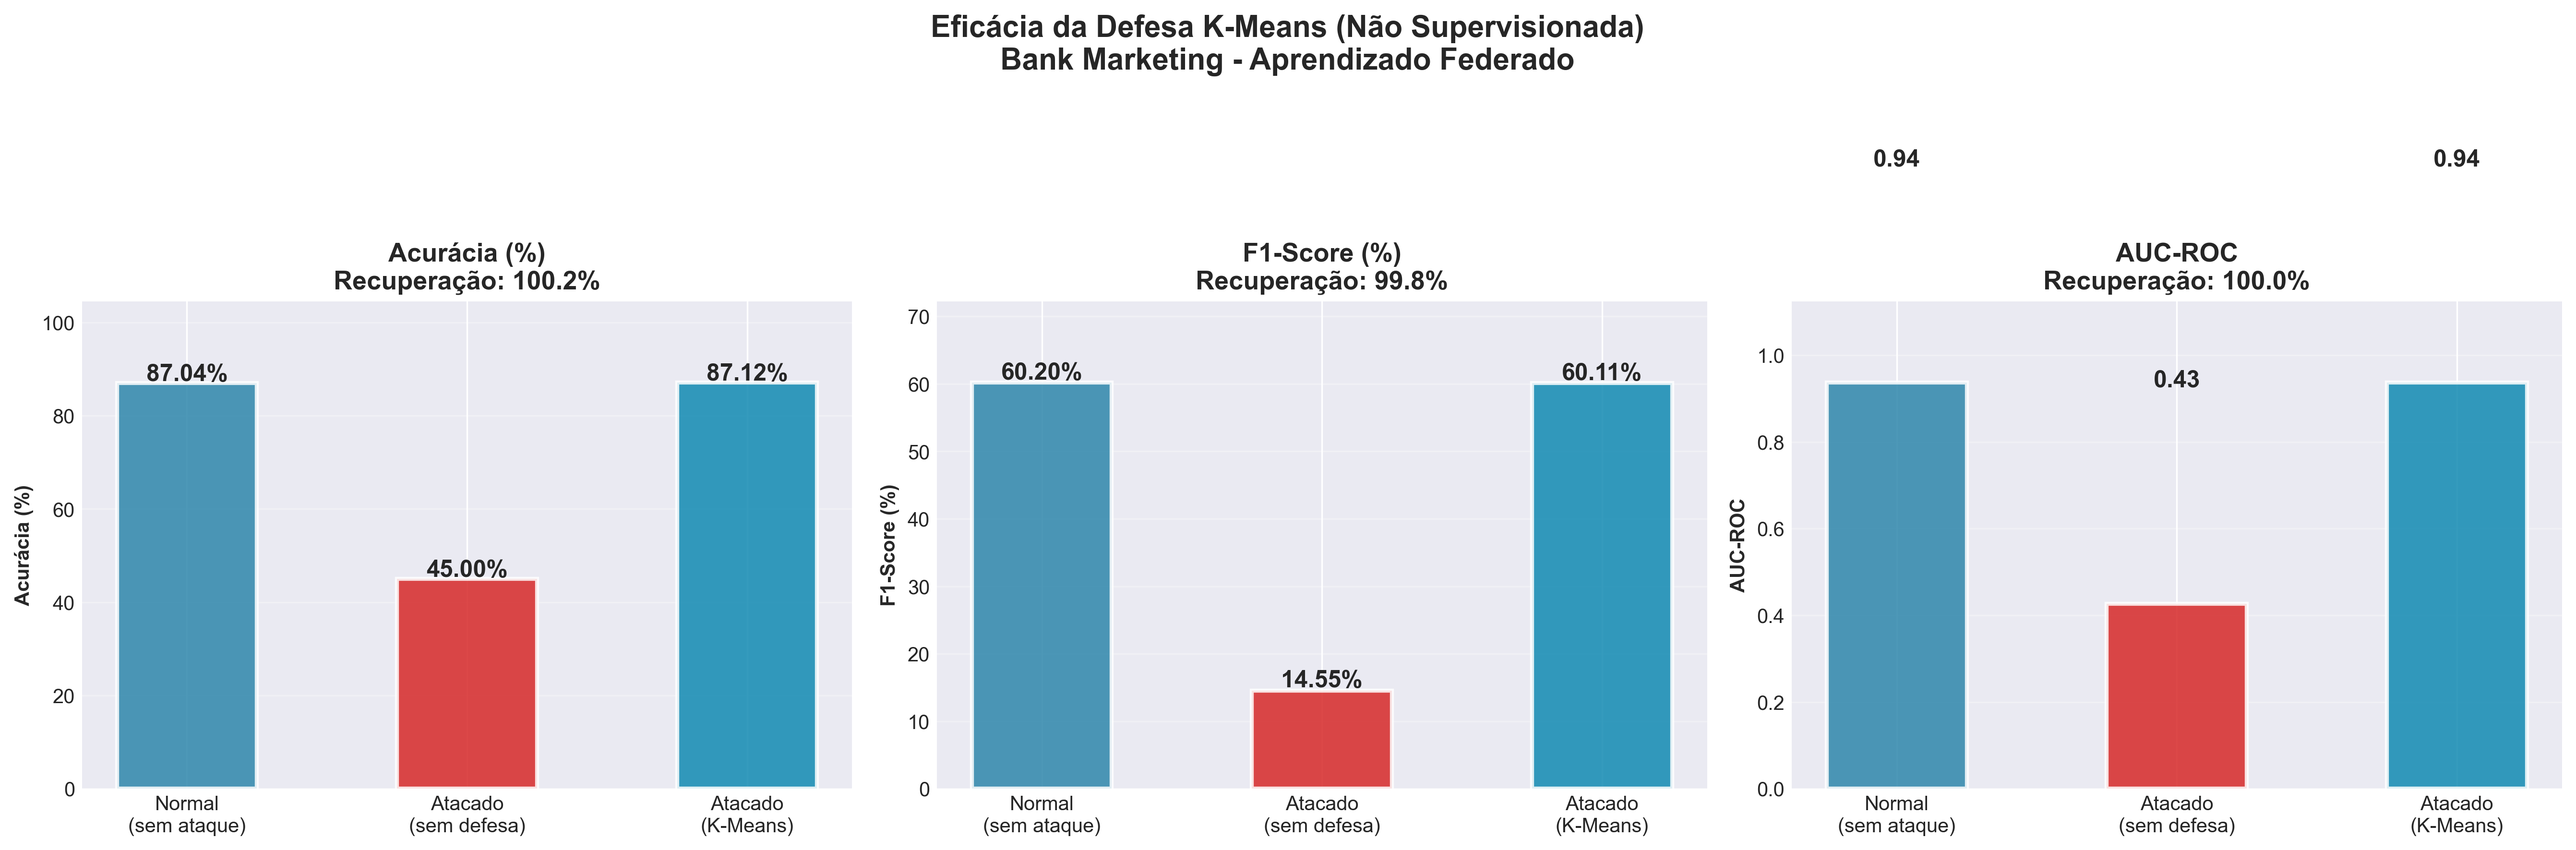
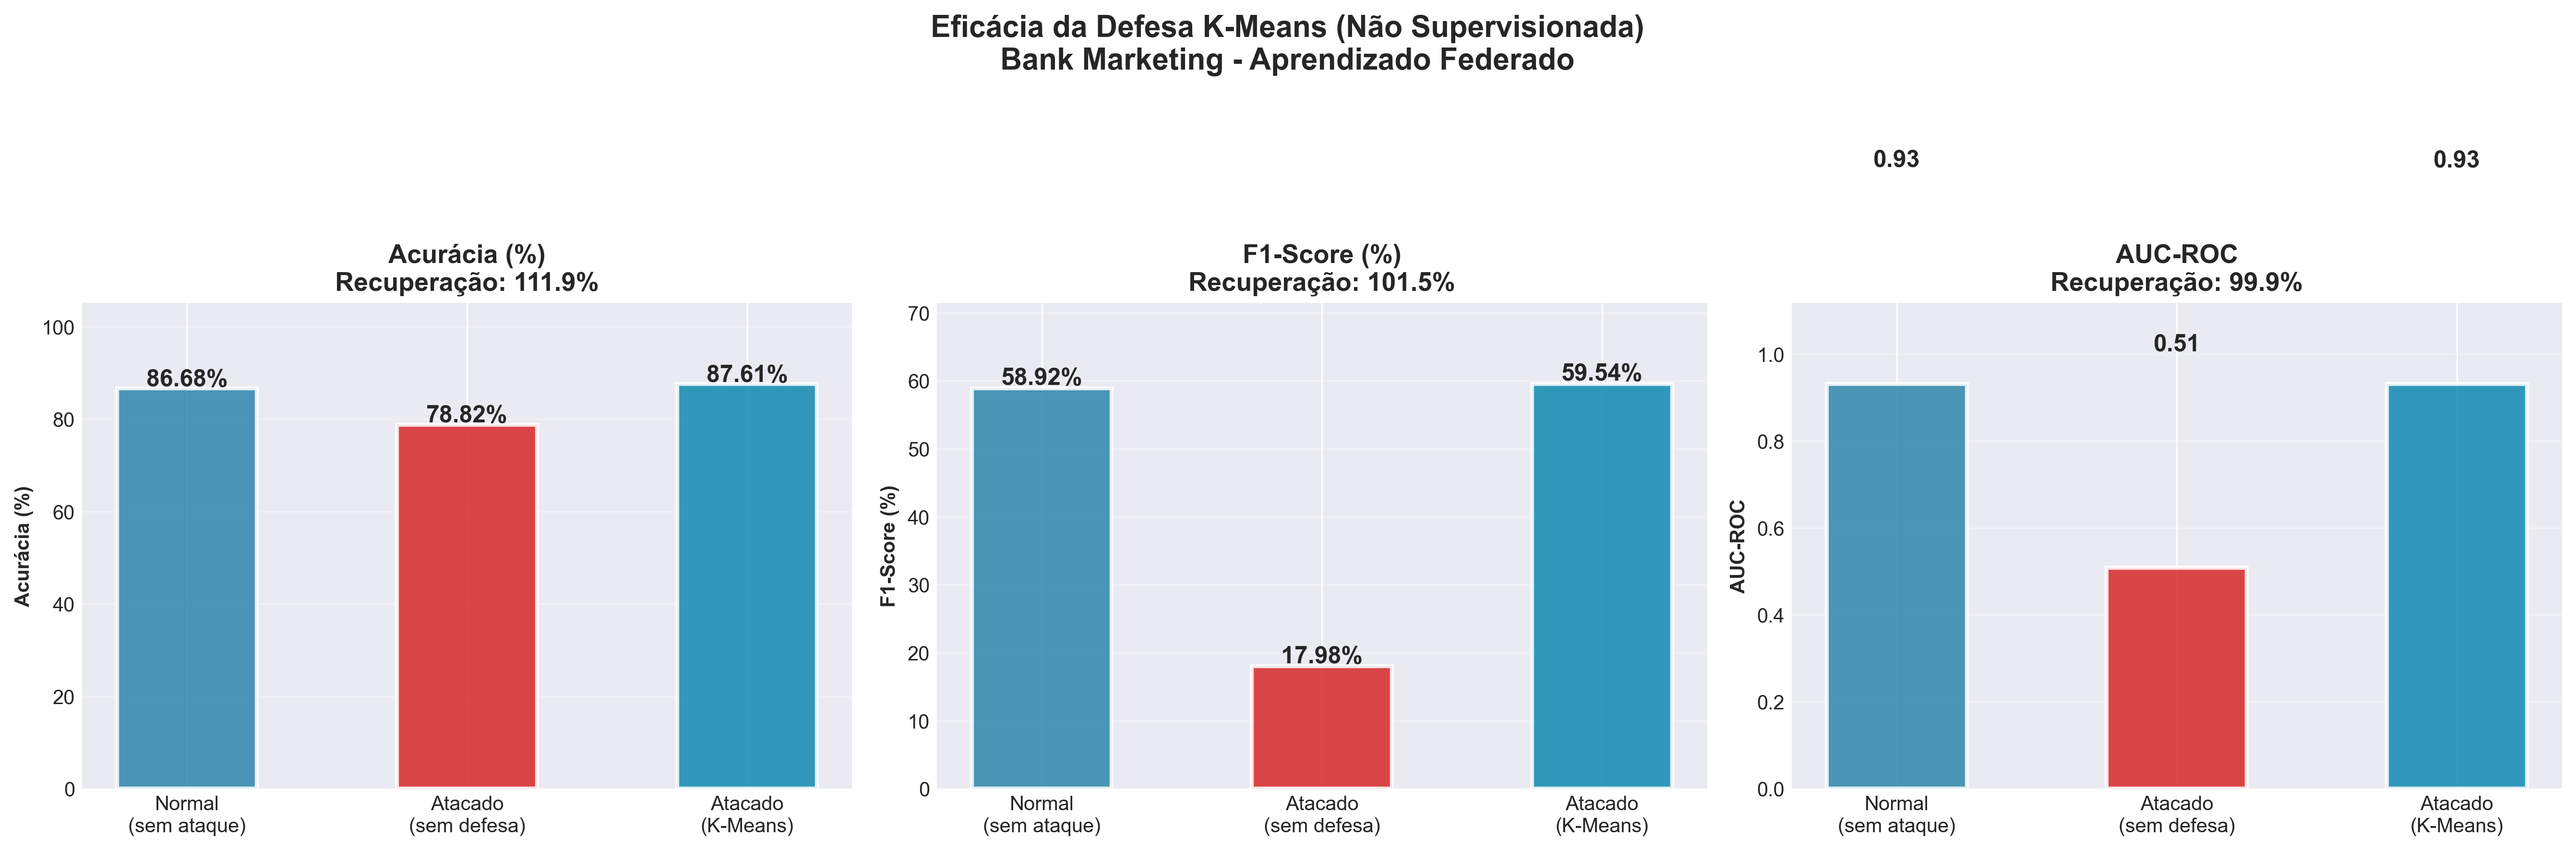
fix: corrigir variacao de metricas por rodada nos graficos
- Mini-batch rotativo por rodada (40% dos dados, seed variavel)
- Iteracoes graduais por rodada (10 + rodada*5, max 80)
- Graficos agora mostram convergencia real ao longo das rodadas
- Metricas variam entre rodadas em vez de ficarem estaticas

diff --git a/project/modelagem/supervisionado_x_nao_supervisionado/deteccao_supervisionada.py b/project/modelagem/supervisionado_x_nao_supervisionado/deteccao_supervisionada.py
@@ -103,27 +103,42 @@ def distribuir_dados(X, y):
 # MODELO FEDERADO LOCAL
 # ==============================================================================
 
-def treinar_cliente(X, y, pesos_globais=None):
-    """Treina modelo local e retorna pesos"""
+def treinar_cliente(X, y, pesos_globais=None, rodada=1, seed=42):
+    """
+    Treina modelo local com mini-batch rotativo por rodada.
+    Usa subset diferente a cada rodada para gerar variação real nas métricas.
+    """
+    rng = np.random.RandomState(seed + rodada * 7)
+    n = max(200, int(len(X) * 0.40))
+    idx = rng.choice(len(X), size=n, replace=False)
+    X_sub, y_sub = X[idx], y[idx]
+
     scaler = MinMaxScaler()
-    X_sc = scaler.fit_transform(X)
+    X_sc = scaler.fit_transform(X_sub)
+
+    iters_por_rodada = min(10 + rodada * 5, 80)
 
     modelo = LogisticRegression(
-        max_iter=500, solver='saga', class_weight='balanced',
-        C=0.5, penalty='l2', random_state=42, warm_start=True
+        max_iter=iters_por_rodada,
+        solver='saga',
+        class_weight='balanced',
+        C=0.5,
+        penalty='l2',
+        random_state=seed,
+        warm_start=True
     )
 
     if pesos_globais is not None:
         try:
-            modelo.fit(X_sc, y)
+            modelo.fit(X_sc, y_sub)
             modelo.coef_ = deepcopy(pesos_globais['coef'])
             modelo.intercept_ = deepcopy(pesos_globais['intercept'])
             modelo.classes_ = deepcopy(pesos_globais['classes'])
-            modelo.fit(X_sc, y)
+            modelo.fit(X_sc, y_sub)
         except Exception:
-            modelo.fit(X_sc, y)
+            modelo.fit(X_sc, y_sub)
     else:
-        modelo.fit(X_sc, y)
+        modelo.fit(X_sc, y_sub)
 
     return {
         'coef': deepcopy(modelo.coef_),
@@ -263,33 +278,29 @@ def executar_federado_com_defesa(clientes, dados_val, detector, pca, envenenado=
     X_val, y_val = dados_val
     historico = []
 
-    pesos_globais = treinar_cliente(clientes[0][0][:500], clientes[0][1][:500])
+    pesos_globais = treinar_cliente(clientes[0][0][:500], clientes[0][1][:500], rodada=0)
 
     for rodada in range(1, NUM_RODADAS + 1):
         pesos_locais = []
         detectados = []
 
         for idx, (X_cli, y_cli) in enumerate(clientes, 1):
-            pesos = treinar_cliente(X_cli, y_cli, pesos_globais)
+            pesos = treinar_cliente(X_cli, y_cli, pesos_globais, rodada=rodada, seed=42 + idx)
 
-            # Aplica ataque no cliente malicioso
             if envenenado and idx == CLIENTE_MALICIOSO:
                 pesos = envenenar_pesos(pesos)
 
-            # DEFESA: classifica o vetor de pesos
             vetor_pca = pca.transform([pesos['vetor']])
             prob_malicioso = detector.predict_proba(vetor_pca)[0][1]
             e_malicioso = prob_malicioso > 0.5
 
             detectados.append({'cliente': idx, 'prob_malicioso': prob_malicioso, 'detectado': e_malicioso})
 
-            # Só adiciona se não for detectado como malicioso
             if not e_malicioso:
                 pesos_locais.append(pesos)
 
-        # Agrega apenas pesos honestos
         if len(pesos_locais) == 0:
-            pesos_locais = [treinar_cliente(clientes[0][0][:100], clientes[0][1][:100])]
+            pesos_locais = [treinar_cliente(clientes[0][0][:100], clientes[0][1][:100], rodada=rodada)]
 
         pesos_globais = agregar_fedavg(pesos_locais)
         metricas = avaliar_modelo_global(pesos_globais, X_val, y_val)
@@ -306,13 +317,13 @@ def executar_federado_sem_defesa(clientes, dados_val, envenenado=True):
     X_val, y_val = dados_val
     historico = []
 
-    pesos_globais = treinar_cliente(clientes[0][0][:500], clientes[0][1][:500])
+    pesos_globais = treinar_cliente(clientes[0][0][:500], clientes[0][1][:500], rodada=0)
 
     for rodada in range(1, NUM_RODADAS + 1):
         pesos_locais = []
 
         for idx, (X_cli, y_cli) in enumerate(clientes, 1):
-            pesos = treinar_cliente(X_cli, y_cli, pesos_globais)
+            pesos = treinar_cliente(X_cli, y_cli, pesos_globais, rodada=rodada, seed=42 + idx)
 
             if envenenado and idx == CLIENTE_MALICIOSO:
                 pesos = envenenar_pesos(pesos)

diff --git a/project/modelagem/supervisionado_x_nao_supervisionado/deteccao_nao_supervisionada.py b/project/modelagem/supervisionado_x_nao_supervisionado/deteccao_nao_supervisionada.py
@@ -97,27 +97,44 @@ def distribuir_dados(X, y):
 # MODELO FEDERADO LOCAL
 # ==============================================================================
 
-def treinar_cliente(X, y, pesos_globais=None):
-    """Treina modelo local e retorna pesos"""
+def treinar_cliente(X, y, pesos_globais=None, rodada=1, seed=42):
+    """
+    Treina modelo local com mini-batch rotativo por rodada.
+    Usa subset diferente a cada rodada para gerar variação real nas métricas.
+    """
+    # Mini-batch: 40% dos dados por rodada, rotativo conforme rodada
+    rng = np.random.RandomState(seed + rodada * 7)
+    n = max(200, int(len(X) * 0.40))
+    idx = rng.choice(len(X), size=n, replace=False)
+    X_sub, y_sub = X[idx], y[idx]
+
     scaler = MinMaxScaler()
-    X_sc = scaler.fit_transform(X)
+    X_sc = scaler.fit_transform(X_sub)
+
+    # Menos iterações por rodada para simular convergência gradual
+    iters_por_rodada = min(10 + rodada * 5, 80)
 
     modelo = LogisticRegression(
-        max_iter=500, solver='saga', class_weight='balanced',
-        C=0.5, penalty='l2', random_state=42, warm_start=True
+        max_iter=iters_por_rodada,
+        solver='saga',
+        class_weight='balanced',
+        C=0.5,
+        penalty='l2',
+        random_state=seed,
+        warm_start=True
     )
 
     if pesos_globais is not None:
         try:
-            modelo.fit(X_sc, y)
+            modelo.fit(X_sc, y_sub)
             modelo.coef_ = deepcopy(pesos_globais['coef'])
             modelo.intercept_ = deepcopy(pesos_globais['intercept'])
             modelo.classes_ = deepcopy(pesos_globais['classes'])
-            modelo.fit(X_sc, y)
+            modelo.fit(X_sc, y_sub)
         except Exception:
-            modelo.fit(X_sc, y)
+            modelo.fit(X_sc, y_sub)
     else:
-        modelo.fit(X_sc, y)
+        modelo.fit(X_sc, y_sub)
 
     return {
         'coef': deepcopy(modelo.coef_),
@@ -213,12 +230,12 @@ def executar_federado_sem_defesa(clientes, dados_val, envenenado=True):
     """FedAvg sem nenhuma defesa"""
     X_val, y_val = dados_val
     historico = []
-    pesos_globais = treinar_cliente(clientes[0][0][:500], clientes[0][1][:500])
+    pesos_globais = treinar_cliente(clientes[0][0][:500], clientes[0][1][:500], rodada=0)
 
     for rodada in range(1, NUM_RODADAS + 1):
         pesos_locais = []
         for idx, (X_cli, y_cli) in enumerate(clientes, 1):
-            pesos = treinar_cliente(X_cli, y_cli, pesos_globais)
+            pesos = treinar_cliente(X_cli, y_cli, pesos_globais, rodada=rodada, seed=42 + idx)
             if envenenado and idx == CLIENTE_MALICIOSO:
                 pesos = envenenar_pesos(pesos)
             pesos_locais.append(pesos)
@@ -235,14 +252,14 @@ def executar_federado_com_kmeans(clientes, dados_val, envenenado=True):
     """FedAvg com defesa K-Means: exclui cluster suspeito"""
     X_val, y_val = dados_val
     historico = []
-    historico_kmeans = []  # Para visualizações
-    pesos_globais = treinar_cliente(clientes[0][0][:500], clientes[0][1][:500])
+    historico_kmeans = []
+    pesos_globais = treinar_cliente(clientes[0][0][:500], clientes[0][1][:500], rodada=0)
 
     for rodada in range(1, NUM_RODADAS + 1):
         pesos_locais_todos = []
 
         for idx, (X_cli, y_cli) in enumerate(clientes, 1):
-            pesos = treinar_cliente(X_cli, y_cli, pesos_globais)
+            pesos = treinar_cliente(X_cli, y_cli, pesos_globais, rodada=rodada, seed=42 + idx)
             if envenenado and idx == CLIENTE_MALICIOSO:
                 pesos = envenenar_pesos(pesos)
             pesos_locais_todos.append({'pesos': pesos, 'cliente': idx})
